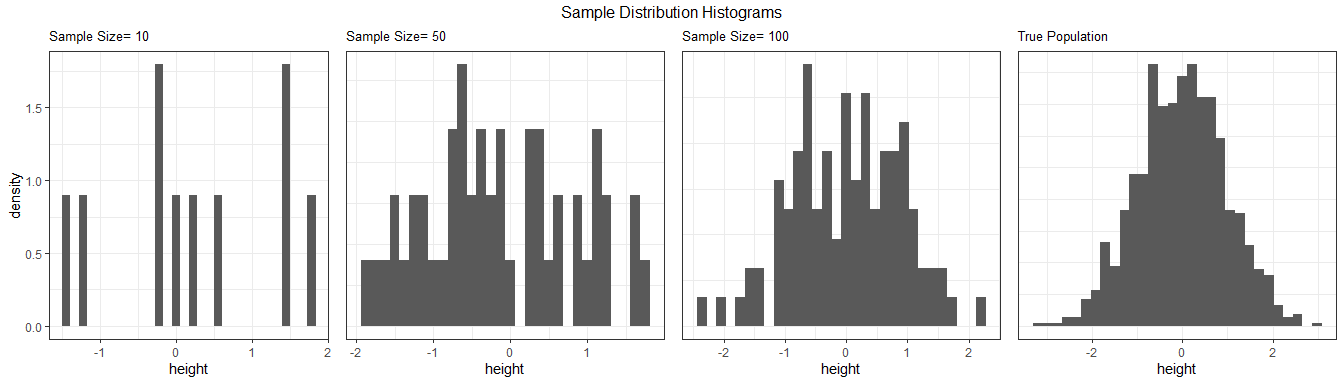
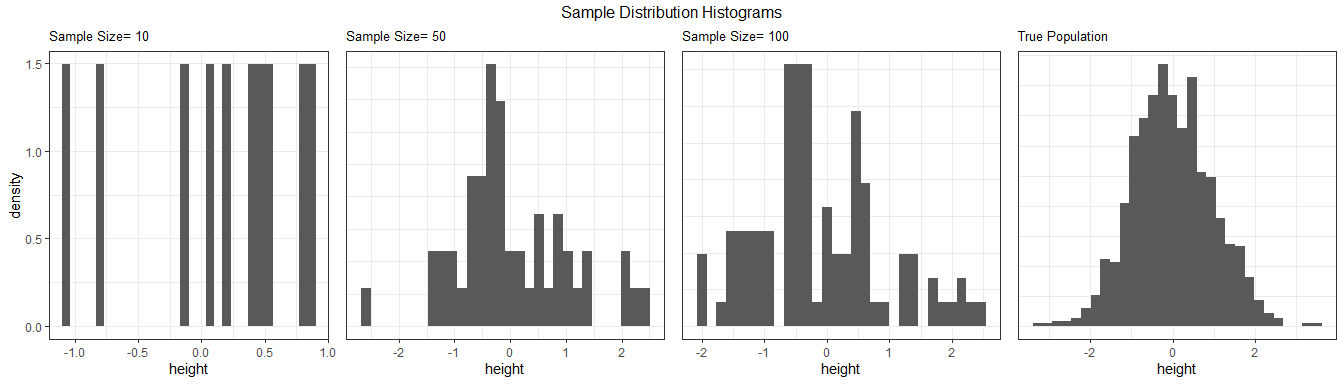
added link to html vignette and knit .md file

diff --git a/README.md b/README.md
@@ -89,12 +89,12 @@ comparison between the sample, sampling, and true population parameters.
 
 ## Dependencies
 
-  - dplyr
-  - rlang
-  - infer
-  - magrittr
-  - gridExtra
-  - ggplot2
+  - dplyr \>= 0.8.5
+  - rlang \>= 0.4.5
+  - infer \>= 0.5.1
+  - magrittr \>= 1.5.0
+  - gridExtra \>= 2.3.0
+  - ggplot2 \>= 3.3.0
 
 ## Usage
 
@@ -204,12 +204,12 @@ head(pop)
 #> # A tibble: 6 x 1
 #>   height
 #>    <dbl>
-#> 1  0.611
-#> 2 -0.842
-#> 3 -0.405
-#> 4 -0.743
-#> 5 -0.377
-#> 6 -0.984
+#> 1 -0.512
+#> 2 -0.226
+#> 3  0.805
+#> 4  0.447
+#> 5 -0.206
+#> 6  2.10
 ```
 
 ``` r
@@ -220,12 +220,12 @@ head(samples)
 #> # Groups:   replicate [6]
 #>   replicate height  size rep_size
 #>       <int>  <dbl> <dbl>    <dbl>
-#> 1         1  0.756     1      100
-#> 2         2 -0.607     1      100
-#> 3         3 -0.451     1      100
-#> 4         4  1.33      1      100
-#> 5         5 -0.842     1      100
-#> 6         6 -0.813     1      100
+#> 1         1  0.205     1      100
+#> 2         2 -0.288     1      100
+#> 3         3  0.681     1      100
+#> 4         4 -1.18      1      100
+#> 5         5 -0.251     1      100
+#> 6         6  2.04      1      100
 ```
 
 ``` r
@@ -247,3 +247,10 @@ plot_sampling_hist(samples, height, c(10, 50, 100), 100)
 ```
 
 <img src="man/figures/README-unnamed-chunk-5-1.png" width="100%" />
+
+### Documentation
+
+The official documentation is hosted on
+[pkgdown](https://ubc-mds.github.io/samplingsimulatorr/). You can also
+refer to our [html
+vignette](https://ubc-mds.github.io/samplingsimulatorr/articles/samplingsimulatorr.html).
